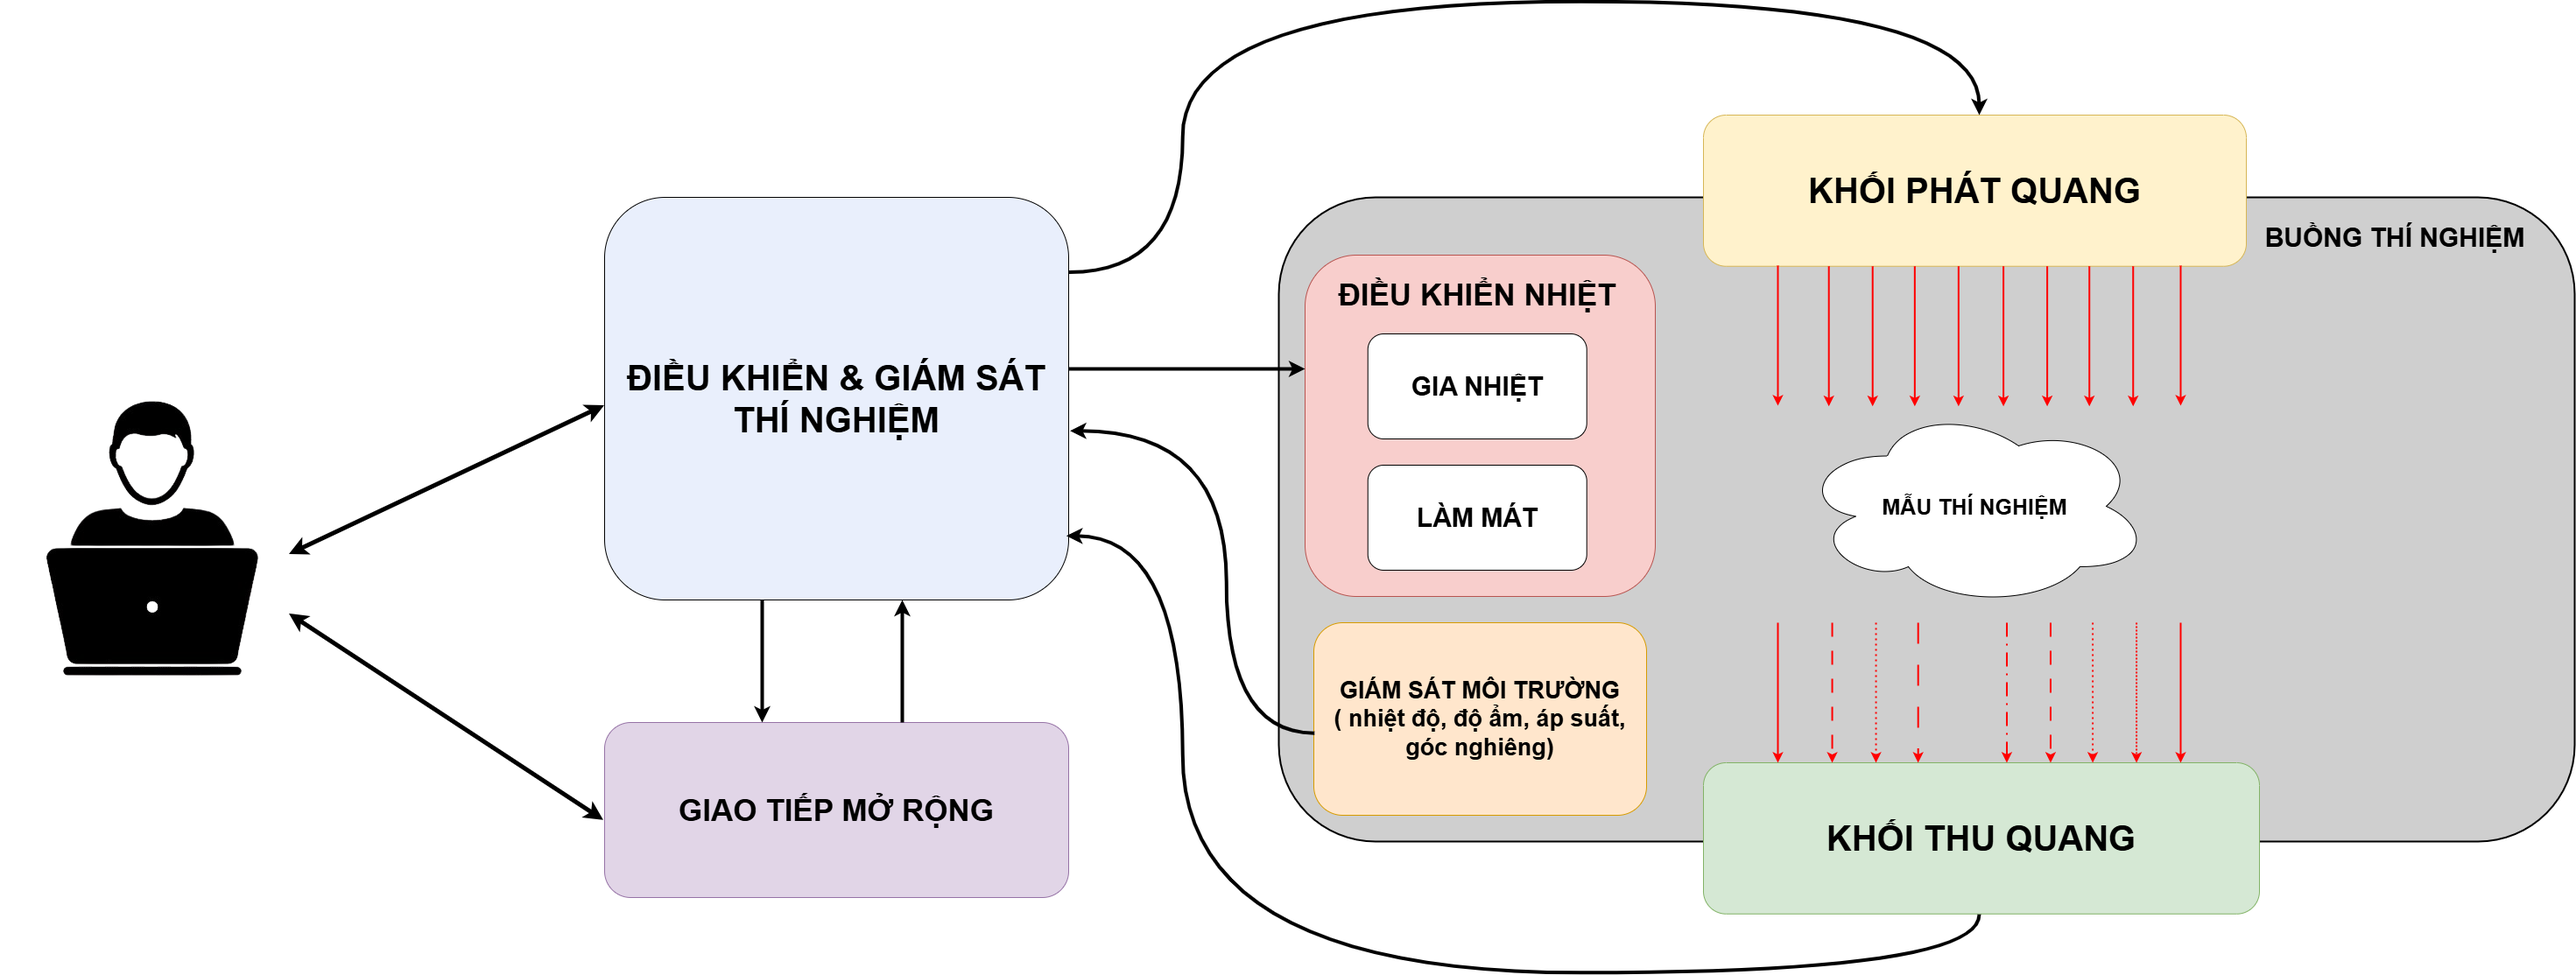
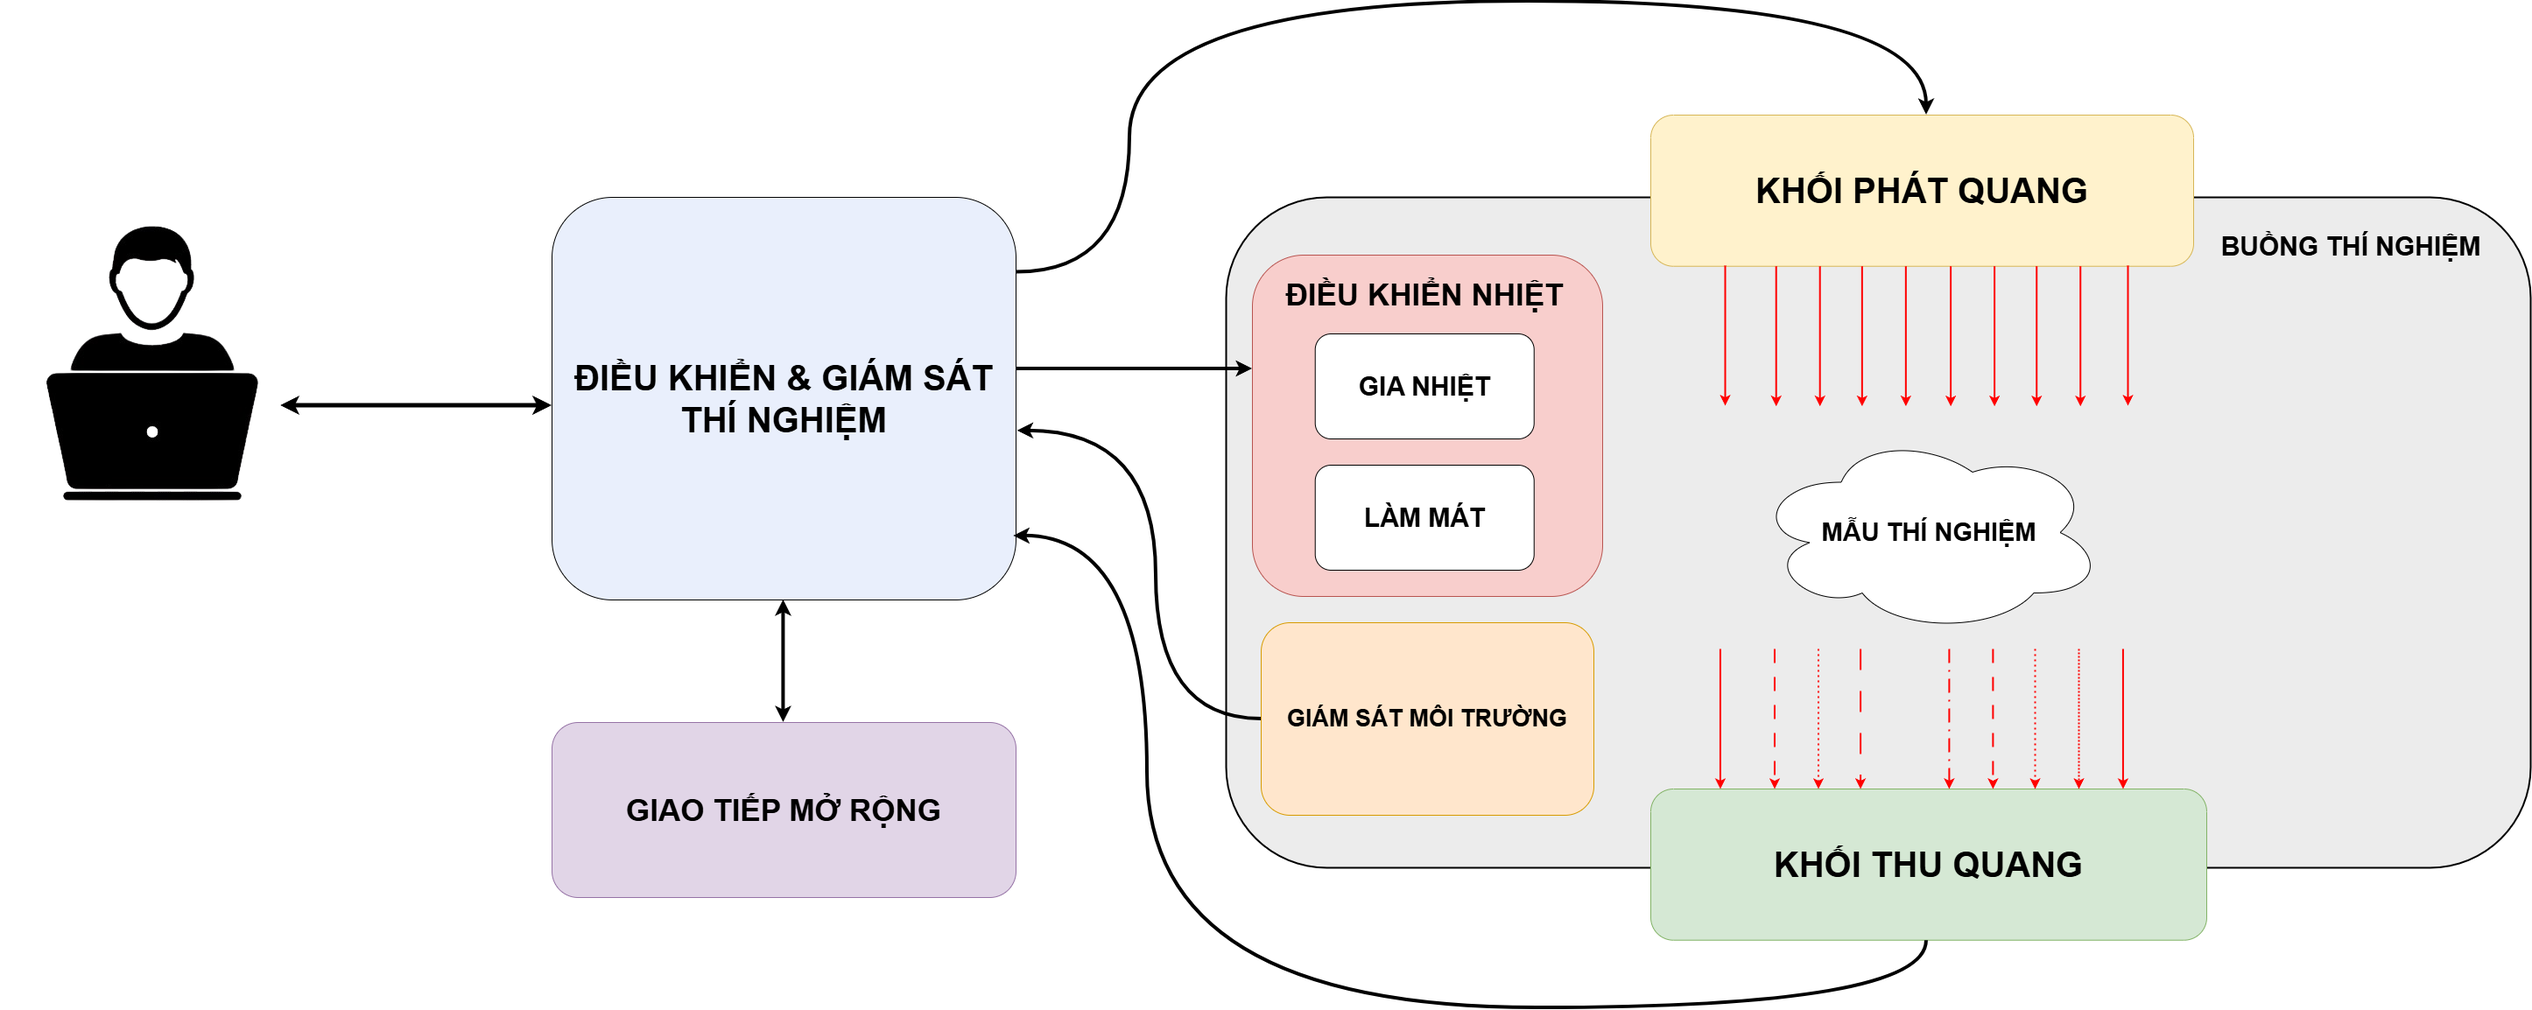
fix chuong2.tex, chuong3.tex

diff --git a/chapters/chuong2.tex b/chapters/chuong2.tex
@@ -227,6 +227,21 @@ Nguyên lý vật lý của HEATER dựa trên hiệu ứng Joule: khi dòng đi
 
 Từ đó, nguyên lý hoạt động của HEATER trong hệ thống điều khiển nhiệt là cấp công suất theo nhu cầu tải nhiệt: tăng công suất khi nhiệt độ đo được thấp hơn giá trị đặt và giảm/ngắt khi tiến gần ngưỡng yêu cầu. Trên thực tế, HEATER thường được điều khiển qua MOSFET bằng PWM hoặc điều khiển on-off theo phản hồi cảm biến nhiệt (ví dụ NTC), nhằm giữ nhiệt độ ổn định, giảm dao động và tối ưu tiêu thụ năng lượng.
 
+\subsection{Cấu tạo và nguyên lý hoạt động của TEC}
+
+\begin{figure}[H]
+    \centering
+    \includegraphics[width=0.7\textwidth]{picture/components/TEC.jpg}
+    \caption{Linh kiện TEC}
+    \label{fig:tec_module}
+\end{figure}
+
+TEC (Thermoelectric Cooler), hay module Peltier, là phần tử nhiệt điện có khả năng tạo chênh lệch nhiệt độ giữa hai mặt khi được cấp dòng điện một chiều. Về cấu tạo, TEC thường gồm nhiều cặp bán dẫn loại P và loại N được mắc nối tiếp về điện nhưng song song về nhiệt, đặt xen kẽ giữa hai tấm gốm cách điện. Hai tấm gốm này vừa có nhiệm vụ cố định cơ khí, cách điện, vừa truyền nhiệt giữa module và môi trường bên ngoài.
+
+Nguyên lý vật lý của TEC dựa trên hiệu ứng Peltier: khi dòng điện đi qua mối nối giữa hai vật liệu bán dẫn khác loại, nhiệt lượng sẽ được hấp thụ ở một phía và tỏa ra ở phía còn lại. Vì vậy, một mặt của TEC trở thành mặt lạnh dùng để hấp thụ nhiệt từ buồng thí nghiệm, trong khi mặt kia trở thành mặt nóng và cần được tản nhiệt hiệu quả. Nếu đảo chiều dòng điện cấp vào TEC, chiều truyền nhiệt cũng bị đảo ngược, tức là mặt lạnh và mặt nóng đổi vai trò cho nhau.
+
+Từ đó, nguyên lý hoạt động của TEC trong hệ thống điều khiển nhiệt là bơm nhiệt ra khỏi buồng thí nghiệm khi nhiệt độ đo được cao hơn giá trị đặt. Công suất làm mát của TEC thường được điều khiển thông qua dòng điện cấp, phổ biến là dùng MOSFET hoặc mạch cầu H kết hợp PWM để thay đổi mức công suất và có thể đảo chiều khi cần. Trong thực tế, hiệu quả làm mát của TEC phụ thuộc mạnh vào khả năng tản nhiệt ở mặt nóng; nếu mặt nóng không được giải nhiệt tốt, chênh lệch nhiệt độ giảm và hệ thống khó đạt được nhiệt độ mong muốn.
+
 \subsection{Cấu tạo và nguyên lý hoạt động của NTC}
 \label{subsec:cau-tao-nguyen-ly-ntc}
 
